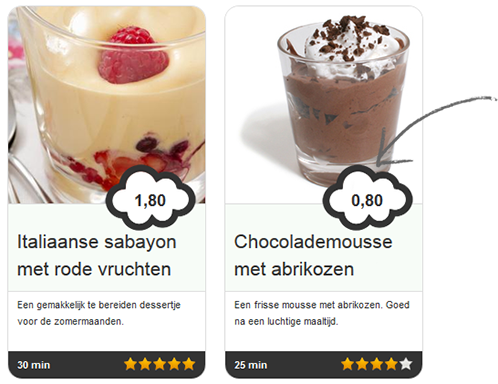
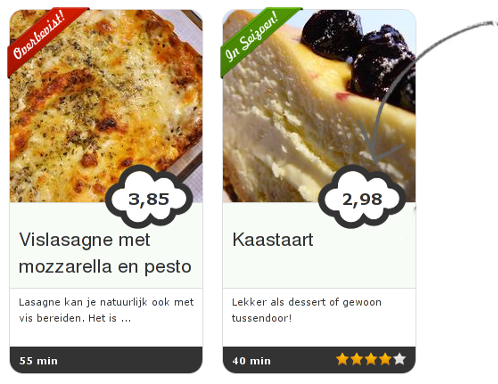
Fixed Issue #222

diff --git a/Seasoning/general/templates/homepage_not_logged_in.html b/Seasoning/general/templates/homepage_not_logged_in.html
@@ -48,21 +48,28 @@ je dagelijkse kost met anderen en haal samen onze voetafdruk naar beneden!
 		</div>
     </div>
 	<div id="info-img-container-3" class="info-img-container">
-        <img class="info-img" src="/static/img/decoration/homepage3.png" style="float: left; margin: 0" alt="" />
+        <img class="info-img" src="/static/img/decoration/homepage3.png" style="float: left; margin: 70px 0" alt="" />
         <div style="padding-top: 40px; text-align: left;">
             <h3>Hoe werkt het?</h3>
             <p>
-                Seasoning berekent voor elk recept een voetafdruk. Dit gebeurt aan 
-                de hand van de opgegeven hoeveelheden in de beschrijving van het recept en onze gegevens over
-                de gebruikte ingrediënten. Elke voetafdruk die je op Seasoning ziet, geeft het aantal kilogram CO2-uitstoot 
-                per 4 porties weer.
+                Seasoning berekent voor elk recept een voetafdruk. Dit gebeurt aan de hand van de opgegeven hoeveelheden 
+                in de beschrijving van het recept en onze gegevens over de gebruikte ingrediënten. Elke voetafdruk die je 
+                op Seasoning ziet, geeft het aantal kilogram CO2-uitstoot per 4 porties weer.
             </p>
             <p>
-                Deze voetafdruk kan je vervolgens gebruiken om recepten onderling te vergelijken en een duurzame
-                keuze te maken!
+                Als alle seizoensgebonden ingrediënten hun duurzaamste niveau bereiken, krijgt het recept bovendien een 
+                groen 'in seizoen' lintje.
             </p>
             <p>
-                Als je graag wil weten hoe we juist te werk gaan bij deze berekening, kan je 
+            	Wanneer het recept daarentegen ingrediënten bevat waarbij extra oplettendheid nodig is (zoals visbestanden
+            	die slecht beheerd worden), zal het recept een rood lintje krijgen.
+            </p>
+            <p>
+            	De voetafdruk en het lintje kunnen je vervolgens helpen om recepten onderling te vergelijken en een duurzame 
+            	keuze te maken!
+            </p>
+            <p>
+                Als je graag wil weten hoe we juist te werk gaan bij de berekening van de voetafdruk, kan je 
                 <a href="{% url 'static_page' 'about' %}">hier</a> meer lezen.
             </p>
 		</div>
